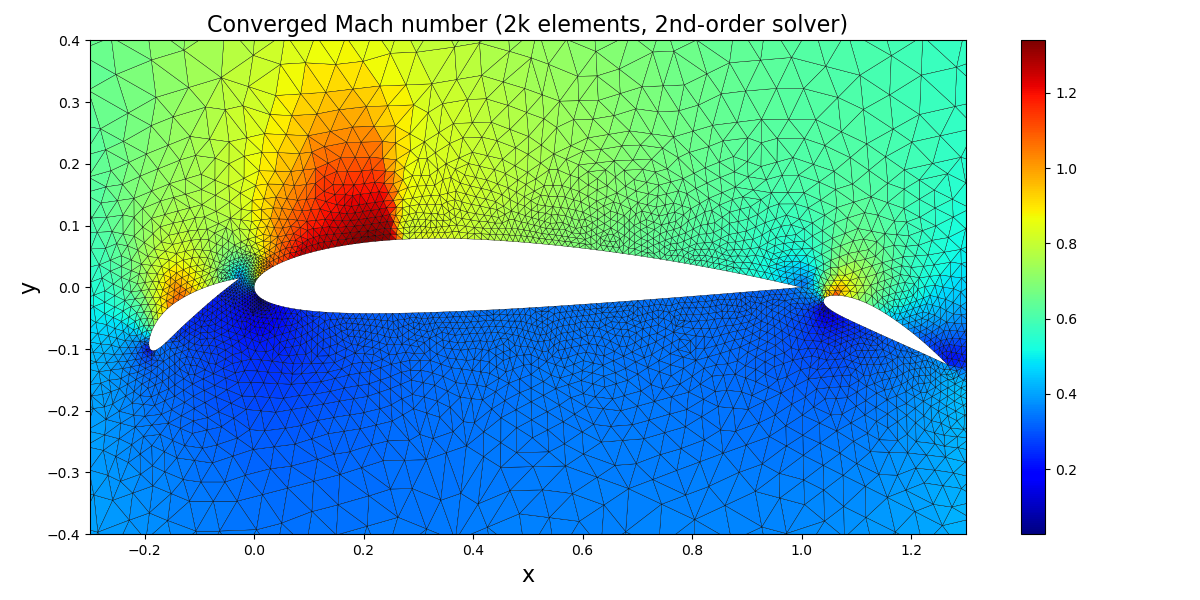
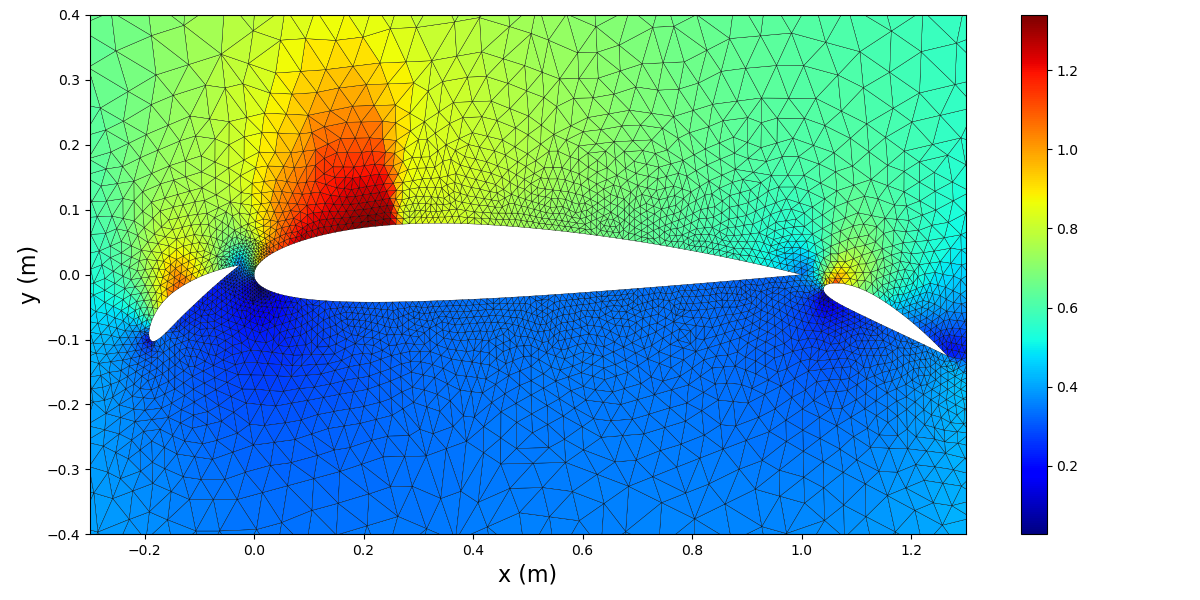
cp plot

diff --git a/post-process.py b/post-process.py
@@ -1,0 +1,132 @@
+import numpy as np
+import matplotlib.pyplot as plt
+from matricesGenerator import getB2E
+from readgri import readgri
+
+
+def plotMach(U, Mesh, name):
+    elem = readgri(Mesh)['E']
+    nodes = readgri(Mesh)['V']
+    X, Y = nodes.T
+    # read the state matrix
+    gamma = 1.4
+    r = U[:, 0]
+    u = U[:, 1] / r
+    v = U[:, 2] / r
+    q = np.sqrt(u ** 2 + v ** 2)
+    p = (gamma - 1) * (U[:, 3] - 0.5 * r * q ** 2)
+    c = np.sqrt(gamma * p / r)
+
+    f = plt.figure(figsize=(12, 6))
+    plt.tripcolor(X, Y, triangles=elem, facecolors=p, shading='flat', edgecolor='black')
+    cbar = plt.colorbar(orientation='vertical')
+    cbar.ax.tick_params()
+    plt.set_cmap('jet')
+    plt.xlabel('x (m)', fontsize=16)
+    plt.ylabel('y (m)', fontsize=16)
+    f.tight_layout()
+    plt.xlim([-0.3, 1.3])
+    plt.ylim([-0.4, 0.4])
+    plt.show()
+    plt.close(f)
+
+
+# plot the cp and calculates the lift and drag coefficient
+# INPUTS: U = state matrix (4xNe)
+#         Uinf = free-stream state (1x4)
+#         B2E = boundary face to element mapping matrix (Nbx3)
+#         Bn = boundary face normal vector (Nbx2)
+#         elem = nodes to elements mapping matrix (Nex3)
+#         nodes = nodes coordinates matrix (number of nodes x 2)
+#         alpha = AoA
+# OUTPUTS: cd = drag coefficient
+#          cl = lift coefficient
+def outputs(U, Uinf, Mesh, alpha):
+    # B2E = getB2E(Mesh)
+    E = readgri(Mesh)['E']
+    V = readgri(Mesh)['V']
+    B = readgri(Mesh)['B']
+    Bname = readgri(Mesh)['Bname']
+
+    # read the state matrix
+    gamma = 1.4
+    r = U[:, 0]
+    u = U[:, 1] / r
+    v = U[:, 2] / r
+    q = np.sqrt(u ** 2 + v ** 2)
+    p = (gamma - 1) * (U[:, 3] - 0.5 * r * q ** 2)
+
+    # free-stream state
+    c = 1
+    rinf = Uinf[0]
+    uinf = Uinf[1] / rinf
+    vinf = Uinf[2] / rinf
+    qinf = np.sqrt(uinf ** 2 + vinf ** 2)
+    pinf = (gamma - 1) * (Uinf[3] - 0.5 * rinf * qinf ** 2)
+
+    Fx = 0
+    Fy = 0
+    pB = np.array([])
+    x = np.array([])
+    iElem = len(E)
+    count = 0
+    for k in range(1, len(B)):
+        for i in range(len(B[k])):
+            for j, ne in enumerate(np.isin(E, B[k][i])):
+                if np.count_nonzero(ne) == 2:
+                    print(ne, )
+                    iElem = i
+                    count += 1
+                    break
+            node1Coord = V[B[k][i][0] - 1]
+            node2Coord = V[B[k][i][1] - 1]
+            l = np.sqrt((node2Coord[0] - node1Coord[0]) ** 2 + (node2Coord[1] - node1Coord[1]) ** 2)
+            x = np.append(x, (node1Coord[0] + node2Coord[0]) / 2)
+            pB = np.append(pB, p[iElem])
+
+            nx = (node2Coord[1] - node1Coord[1]) / l
+            ny = -(node2Coord[0] - node1Coord[0]) / l
+            Fx += l * p[iElem] * nx
+            Fy += l * p[iElem] * ny
+    print(count)
+    D = np.cos(alpha) * Fx - np.sin(alpha) * Fy
+    L = np.sin(alpha) * Fx + np.cos(alpha) * Fy
+
+    cl = L / (1 / 2 * rinf * qinf ** 2 * c)
+    cd = D / (1 / 2 * rinf * qinf ** 2 * c)
+    print(pB, len(pB))
+    cp = (pB - pinf) / (1 / 2 * rinf * qinf ** 2)
+    return cd, cl, [x, cp]
+
+
+def computeFreestreamState(Minf, alpha):
+    gamma = 1.4
+    uInf = np.array([1, Minf * np.cos(alpha), Minf * np.sin(alpha), (1 / (gamma ** 2 - gamma)) + 0.5 * (Minf ** 2)])
+    return uInf
+
+
+def plotCp(cp):
+    # cp plot
+    f = plt.figure(figsize=(8, 8))
+    plt.xlabel('x', fontsize=16)
+    plt.ylabel(r'$c_p$', fontsize=16)
+    plt.title('Pressure coefficient distribution', fontsize=16)
+    plt.scatter(cp[0], cp[1])
+    f.tight_layout()
+    plt.show()
+
+
+def main():
+    U = np.loadtxt('outputStates_2ndOrder_TRANSONIC_32k_jb_rusanov.txt')
+    Mesh = 'c2.gri'
+    Minf = 0.5
+    alpha = 8 * np.pi / 180
+    uInf = computeFreestreamState(Minf, alpha)
+    cd, cl, cp = outputs(U, uInf, Mesh, alpha)
+    print(f"cd = {cd}, cl = {cl}")
+    plotCp(cp)
+    plotMach(U, Mesh, ['8k', '2nd-order'])
+
+
+if __name__ == "__main__":
+    main()
